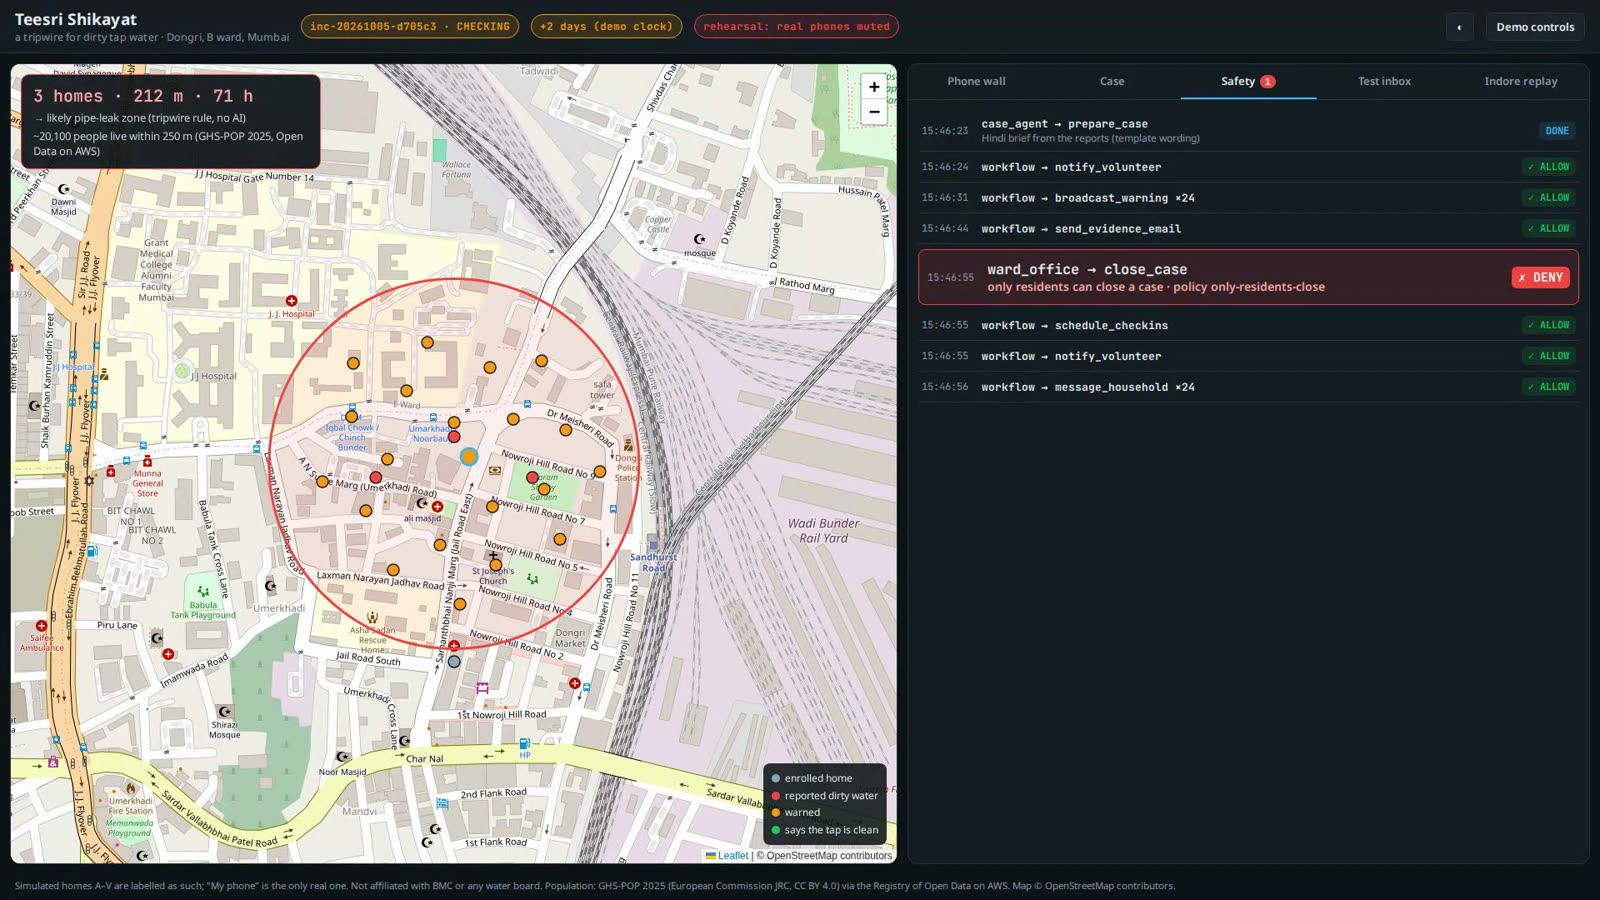
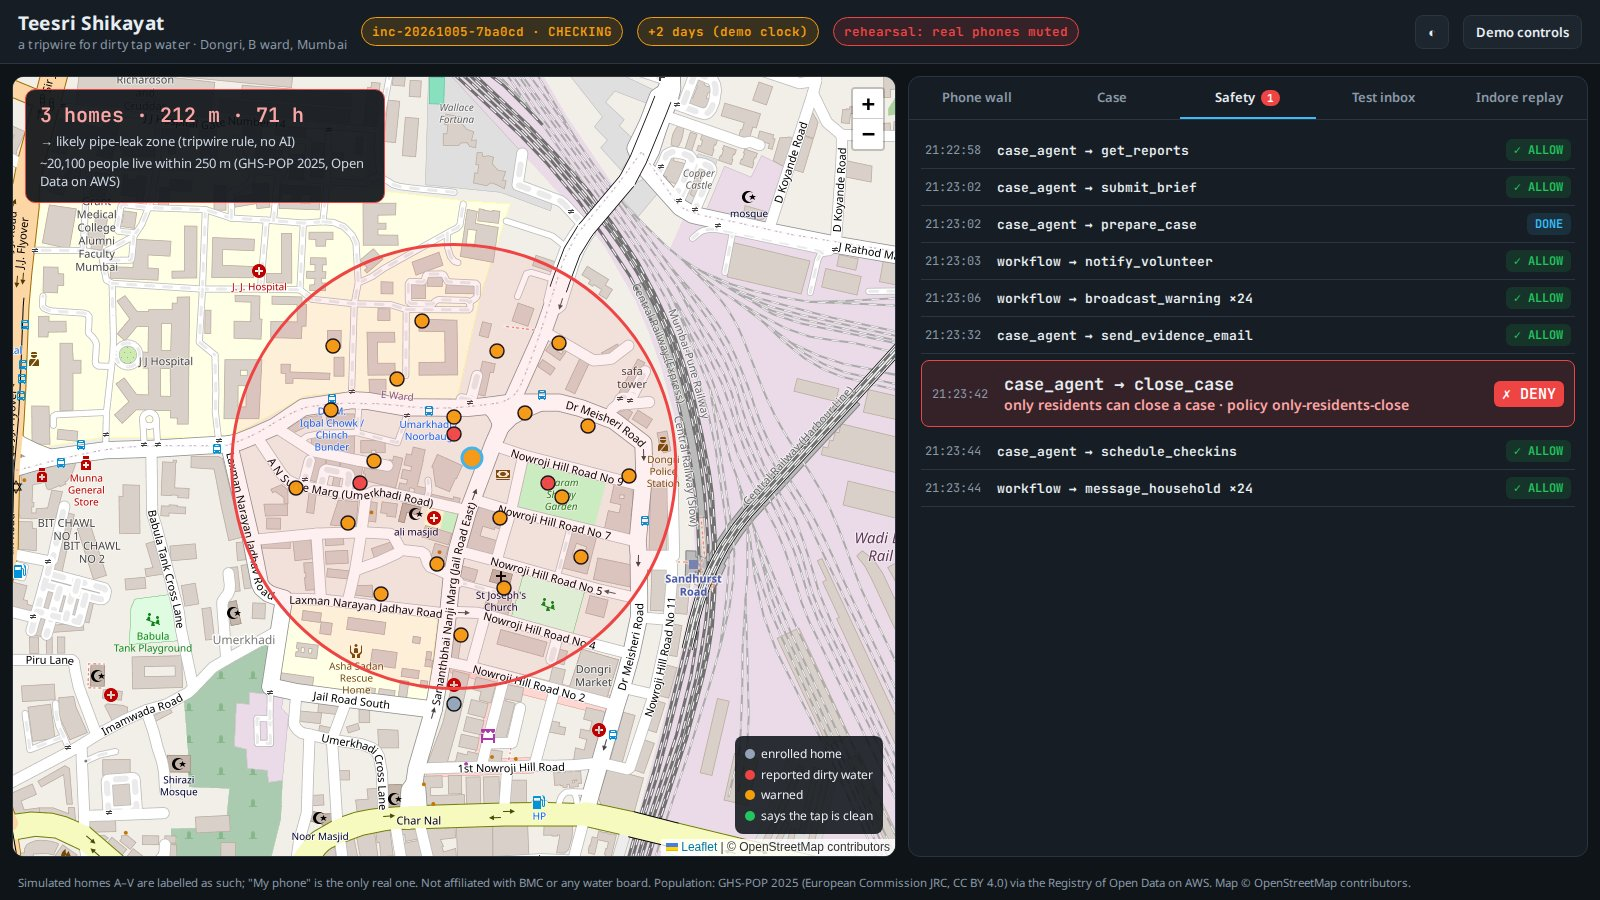
README screenshots retaken in agent mode (case_agent close_case DENY, then the agent asks residents)

diff --git a/state.md b/state.md
@@ -77,7 +77,7 @@ AWS_PROFILE=hackathon .venv/bin/python scripts/set_webhook.py            # only 
 3. ✅ **Agent mode works now, on our own model** (no Bedrock needed; the Fri 10:00 cutoff is gone). Record in agent mode: `scenario.py model on` before (≈1 min), `model off` after. Template mode stays as the fallback if the instance can't run. If Bedrock quota ever arrives: `MODEL_BACKEND=bedrock` in `infra/stack.py`.
 4. **Needs Aryan:**
    - (a) ✅ Telegram Web linked (18:37).
-   - (b) Send the AWS support reply in `~/aws_environment/SEND-QUEUE.md`.
+   - (b) Optional now: the AWS support reply in `~/aws_environment/SEND-QUEUE.md` (the demo no longer needs Bedrock).
    - (c) Decide slot 2: "Thirty-six died." or the ALT "Dozens died." (the source says 36 deaths *examined*, 24 linked; Wikipedia 32).
    - (d) Run `video/narration/narration-chatterbox.ipynb` on a Colab T4 (~30 min; covers every variant), then listen to how "Teesri Shikayat" is pronounced.
    - (e) Put the AI-tools line in `docs/writeup.md` in your own words.
@@ -88,7 +88,6 @@ AWS_PROFILE=hackathon .venv/bin/python scripts/set_webhook.py            # only 
 
 - **Bedrock quota is 0** for every model and region tried (re-probed 19:50). Quota requests for Nova 2 Lite still `CASE_OPENED`. Worked around: the model runs on our own EC2 instance (see Done 19:50–21:19).
 - **Model instance cost:** $0.43/h while running; it stops itself after an idle hour. Turn it on only for rehearsals/recording.
-- README screenshots (`docs/img/console-deny.jpg`) show the template-mode DENY (`ward_office → close_case`); retake in agent mode (`case_agent → close_case`) on recording day.
 - **Deadline hour still TBA:** schedule page re-checked Thu 17:50 ("the hours are being finalised"). Rules page: a submission is a public repo, a YouTube video up to 3 minutes (public or unlisted), and a short writeup (problem, build, where AWS fits); the form closes hard. Form link and fields not published yet.
 - Telegram Desktop can't be driven from this machine (Wayland, no automation); phone steps go through Telegram Web in Chrome (linked 18:37). Recording still needs the real phone screen (shots 5, 6, 8, 9, 11).
 - The shot 9 caption ("20 of 23 … All 23") is fixed text in `video/edl.json`; check it against the console after the recording run.

diff --git a/README.md b/README.md
@@ -56,7 +56,7 @@ flowchart LR
 | read-only-before-approval | While preparing a case, the agent may only read |
 
 ![Safety tab: the ward office's close request denied](docs/img/console-deny.jpg)
-*The ward office says "Resolved": Cedar denies the close (only residents can close a case), and the residents are asked instead.*
+*Agent mode, on our own model: the ward office says "Resolved", the case agent tries `close_case`, Cedar denies it (only residents can close a case), and the agent asks the residents instead. (Rehearsal: real phones muted.)*
 
 **Case agent (Strands).** Three goals: brief the volunteer, write to the ward office, handle the ward office's reply. Numbers in its output come from code; a brief that cites a report that doesn't exist, or adds numbers, is rejected. At most 6 tool calls per goal; any failure falls back to fixed templates.
 
